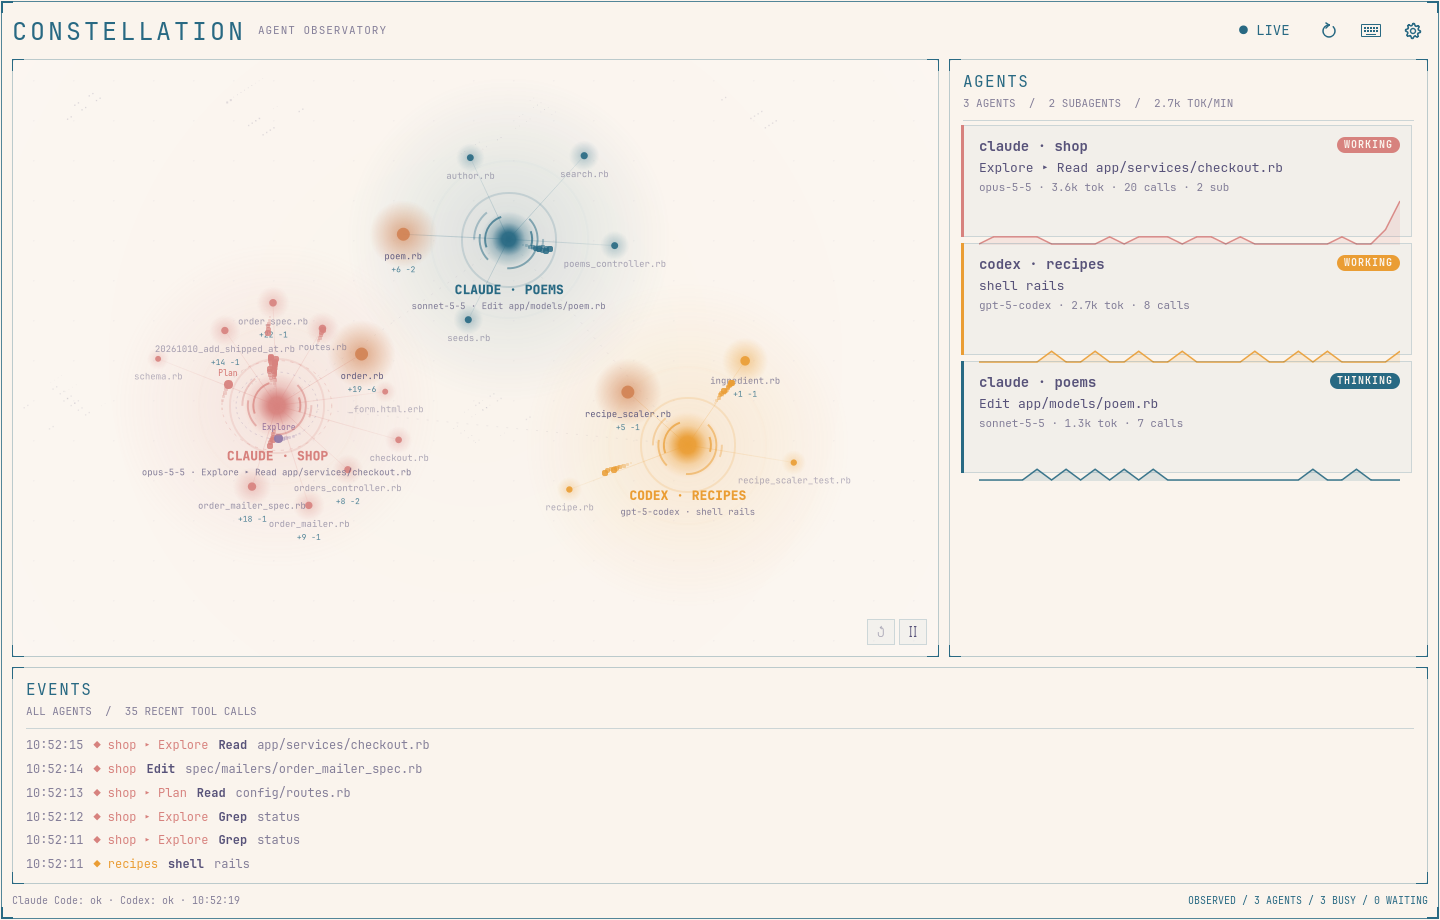
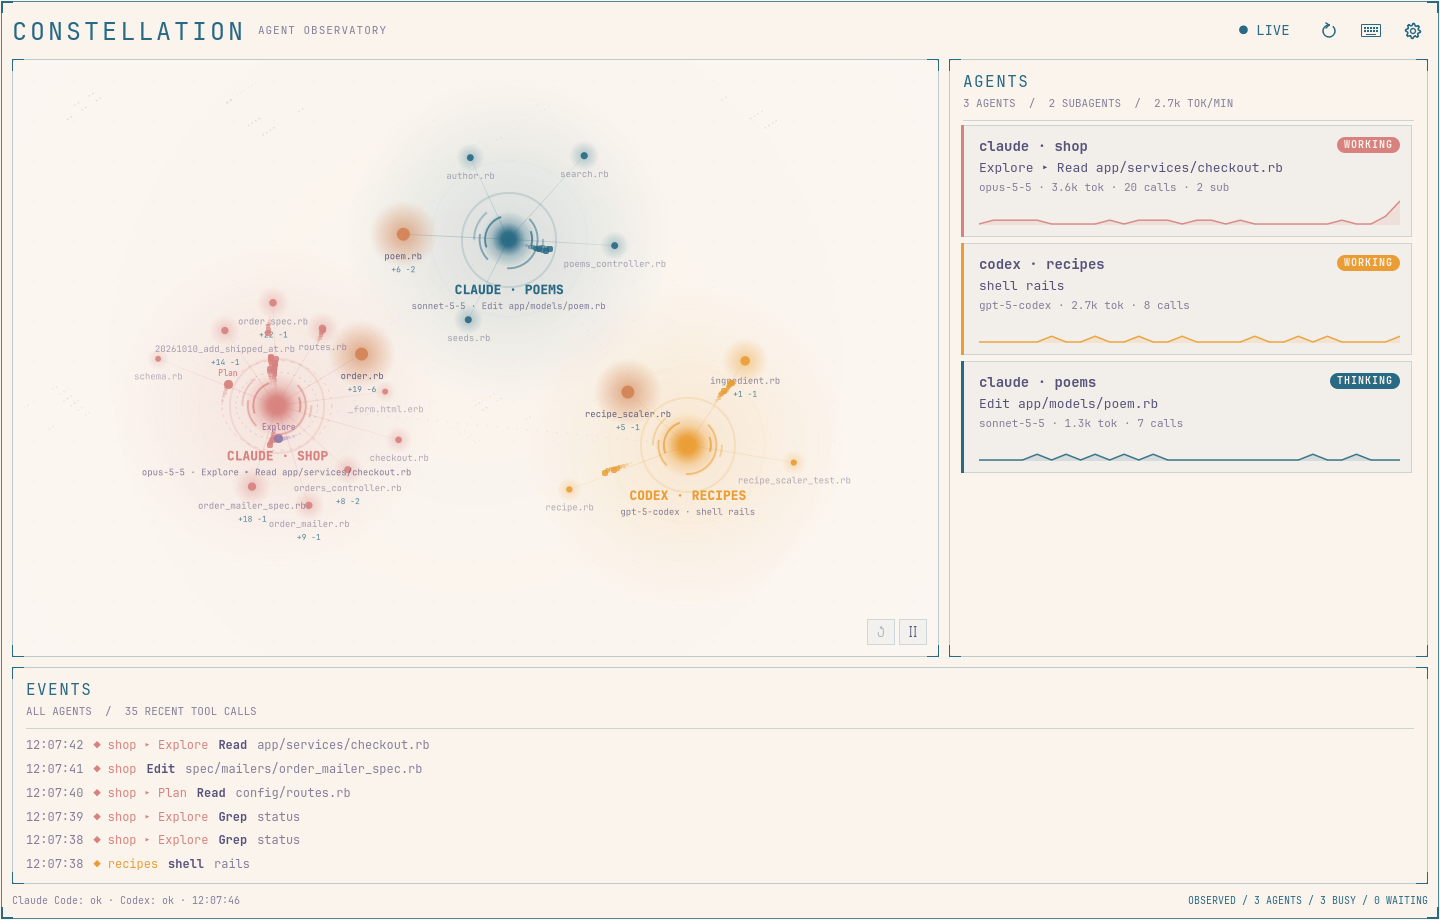
fix: keep agent card sparklines inside the card

diff --git a/ui/AgentList.qml b/ui/AgentList.qml
@@ -115,7 +115,7 @@ Item {
                 }
                 Sparkline {
                     width: parent.width - 6
-                    height: Math.max(18, card.height - 4 - y)
+                    height: Math.max(18, card.availableHeight - y)
                     values: card.modelData.activityBuckets
                     ink: card.ink
                 }
